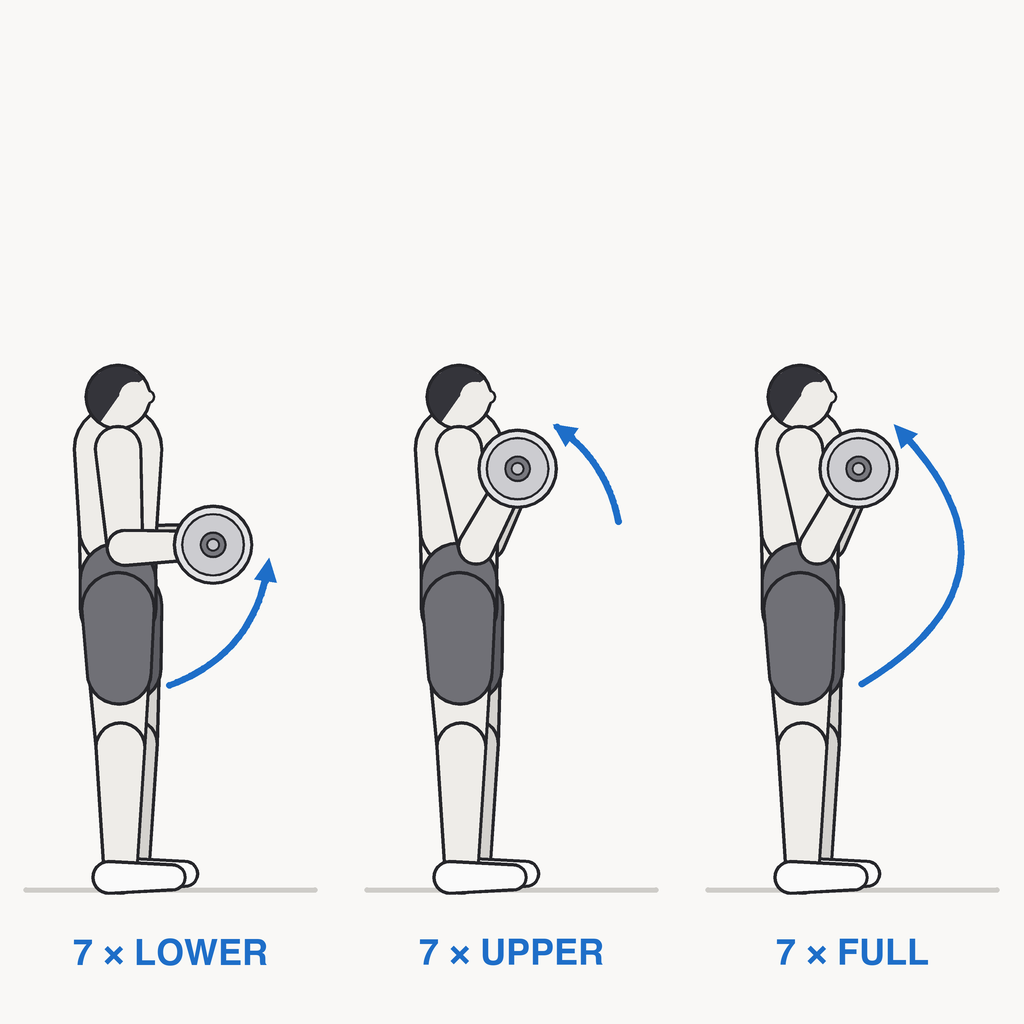
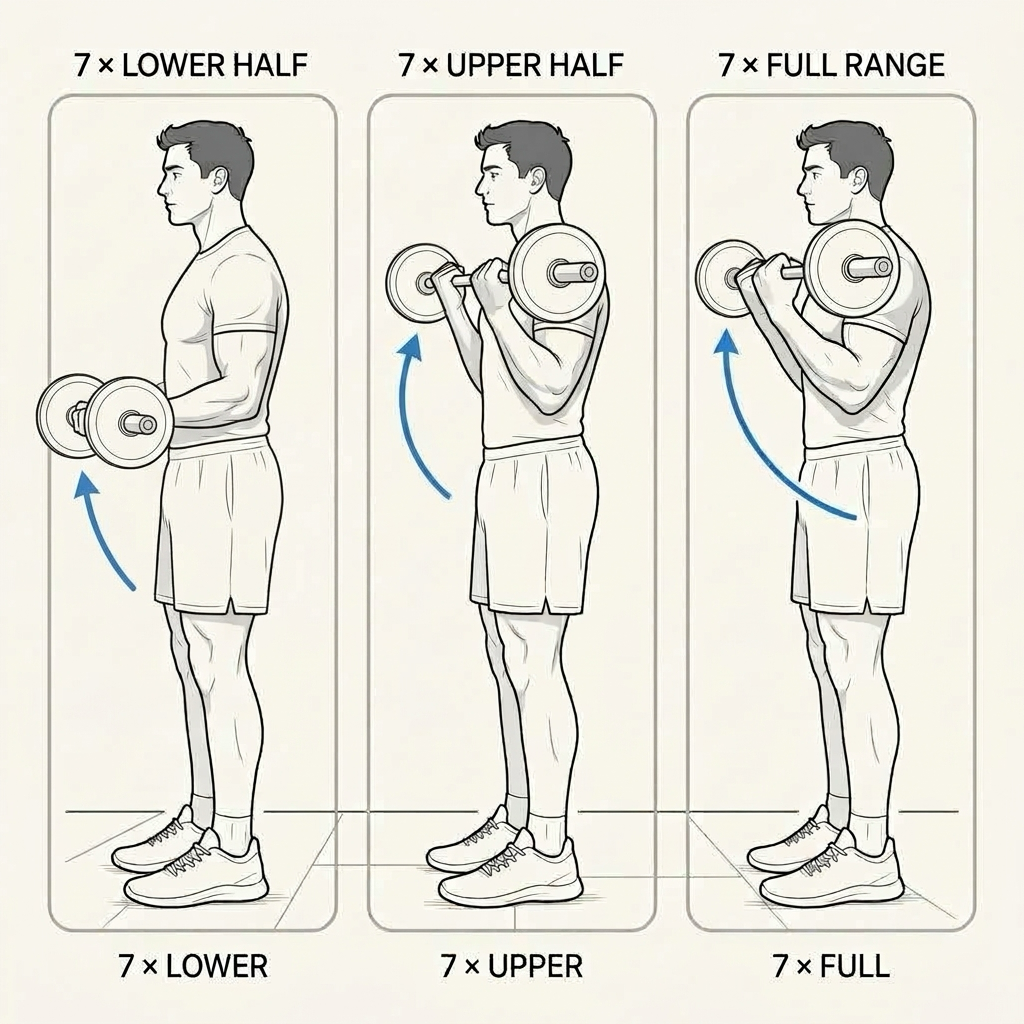
feat(images): publish AI art for Barbell 21s and Dumbbell Skull Crusher (rev 13)

Changed region(s): [[0.0312, 0.0312, 0.9688, 0.9688], [0.25, 0.6875, 0.2812, 0.75]]

diff --git a/FORM_GUIDE_IMAGE_TODO.md b/FORM_GUIDE_IMAGE_TODO.md
@@ -13,18 +13,16 @@ filename** in `remote/images/exercises/`, then in the app repo run
 `exerciseImages.revision` in `remote/manifest.json` (and the app repo's `data/remote/manifest.json`),
 push this repo and purge that image's jsDelivr URL. Re-running the script drops the row.
 
-_Last generated 2026-09-29 — 54 pending, 0 replaced._
+_Last generated 2026-09-30 — 52 pending, 2 replaced._
 
 ## Pending
 
 | | Exercise | Current image | Size |
 | --- | --- | --- | --- |
-| [ ] | Barbell 21s | [`form.arms-barbell-21s.png`](remote/images/exercises/form.arms-barbell-21s.png) | 91 KB |
 | [ ] | Bodyweight Tricep Extension | [`form.arms-bodyweight-tricep-extension.png`](remote/images/exercises/form.arms-bodyweight-tricep-extension.png) | 101 KB |
 | [ ] | Cable Preacher Curl | [`form.arms-cable-preacher-curl.png`](remote/images/exercises/form.arms-cable-preacher-curl.png) | 104 KB |
 | [ ] | Cross-Body Cable Tricep Extension | [`form.arms-cross-body-cable-extension.png`](remote/images/exercises/form.arms-cross-body-cable-extension.png) | 107 KB |
 | [ ] | Dumbbell Preacher Curl | [`form.arms-dumbbell-preacher-curl.png`](remote/images/exercises/form.arms-dumbbell-preacher-curl.png) | 88 KB |
-| [ ] | Dumbbell Skull Crusher | [`form.arms-dumbbell-skull-crusher.png`](remote/images/exercises/form.arms-dumbbell-skull-crusher.png) | 71 KB |
 | [ ] | EZ-Bar Overhead Tricep Extension | [`form.arms-ez-bar-overhead-tricep-extension.png`](remote/images/exercises/form.arms-ez-bar-overhead-tricep-extension.png) | 86 KB |
 | [ ] | Incline Hammer Curl | [`form.arms-incline-hammer-curl.png`](remote/images/exercises/form.arms-incline-hammer-curl.png) | 84 KB |
 | [ ] | Machine Dip | [`form.arms-machine-dip.png`](remote/images/exercises/form.arms-machine-dip.png) | 79 KB |
@@ -76,12 +74,6 @@ _Last generated 2026-09-29 — 54 pending, 0 replaced._
 
 ## Prompts
 
-### Barbell 21s
-
-`form.arms-barbell-21s.png`
-
-> Instructional form-guide: Barbell 21s. Three small panels, side view of a standing athlete curling a barbell with an underhand shoulder-width grip, elbows at the sides. Panel 1 labelled 7 × BOTTOM HALF: arms straight to forearms horizontal. Panel 2 labelled 7 × TOP HALF: forearms horizontal to the top. Panel 3 labelled 7 × FULL: bottom to top. Blue curved arrows for each range. Style: clean black line art, light gray shading, off-white background, blue arrows only, square 1:1, no photo-realism.
-
 ### Bodyweight Tricep Extension
 
 `form.arms-bodyweight-tricep-extension.png`
@@ -105,12 +97,6 @@ _Last generated 2026-09-29 — 54 pending, 0 replaced._
 `form.arms-dumbbell-preacher-curl.png`
 
 > Instructional form-guide: Dumbbell Preacher Curl. Two panels, side view of an athlete seated at a preacher bench, back of one upper arm flat on the angled pad, one dumbbell in that hand, palm up. START: arm nearly straight down the pad. FINISH: forearm nearly vertical, dumbbell near the shoulder. Blue curved arrow along the forearm arc. Style: clean black line art, light gray shading, off-white background, blue arrows only, square 1:1, no photo-realism.
-
-### Dumbbell Skull Crusher
-
-`form.arms-dumbbell-skull-crusher.png`
-
-> Instructional form-guide: Dumbbell Skull Crusher. Two panels, side view of an athlete lying on a flat bench, a dumbbell in each hand, palms facing each other. START: arms straight above the shoulders. FINISH: elbows bent, dumbbells lowered beside the head, upper arms still. Blue curved arrow along the forearm arc. Style: clean black line art, light gray shading, off-white background, blue arrows only, square 1:1, no photo-realism.
 
 ### EZ-Bar Overhead Tricep Extension
 
@@ -399,3 +385,8 @@ _Last generated 2026-09-29 — 54 pending, 0 replaced._
 `form.shoulders-smith-machine-shoulder-press.png`
 
 > Instructional form-guide: Smith Machine Shoulder Press. Two panels, side three-quarter view of an athlete seated on an upright bench inside a Smith machine, back against the pad. START: guided bar at chin level in front of the face, forearms vertical. FINISH: arms straight overhead. Blue upward arrow along the vertical guide rails. Style: clean black line art, light gray shading, off-white background, blue arrows only, square 1:1, no photo-realism.
+
+## Replaced with AI art
+
+- [x] Barbell 21s — `form.arms-barbell-21s.png`
+- [x] Dumbbell Skull Crusher — `form.arms-dumbbell-skull-crusher.png`
